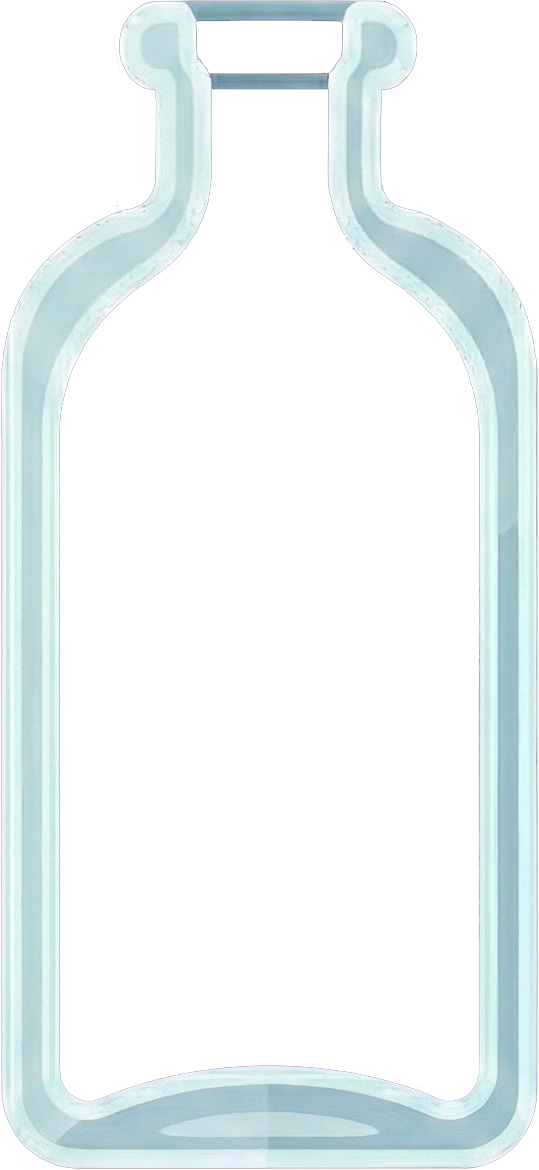
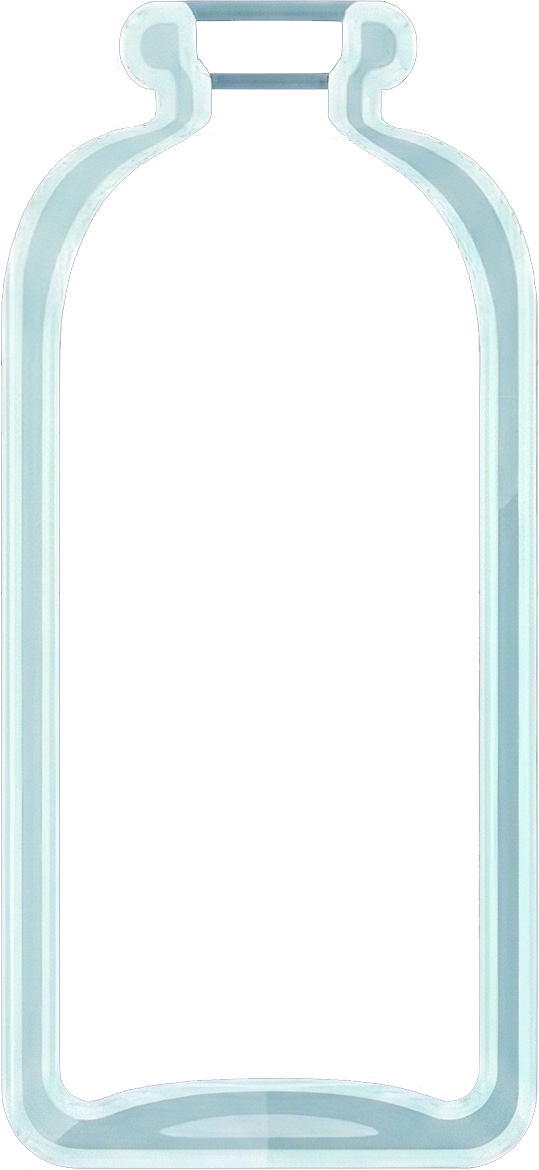
Integrate bottle PNG and fix liquid positioning
- Replace bottle CSS with PNG image overlay (bottle.png)
- Center liquid container using width + translateX(-99%)
- Add borderRadius to liquid container for base curve
- Measure board height via useRef for accurate layout calculation
- Update calculateLayout to use real board height

Changed region(s): [[0.5937, 0.0923, 1.0, 0.3692], [0.0, 0.0923, 0.4156, 0.3692], [0.2375, 0.8923, 0.7718, 0.9538]]

diff --git a/js/components.js b/js/components.js
@@ -92,12 +92,13 @@ function Bottle({
   const doneColor   = completed ? getColor(segments[0]) : null;
 
   // Image-based bottle dimensions
-  // The PNG has a neck region (~18% top) and base (~8% bottom); liquid fills the middle ~74%
+  // The PNG interior: neck ends ~22% from top, base ~5% from bottom, walls ~14% each side
   const imgW        = w;
   const imgH        = Math.round(w * 2.8);   // aspect ratio of the PNG (~1:2.8)
-  const liquidTop   = Math.round(imgH * 0.18);
-  const liquidBot   = Math.round(imgH * 0.08);
+  const liquidTop   = Math.round(imgH * 0.22);
+  const liquidBot   = Math.round(imgH * 0.05);
   const liquidH     = imgH - liquidTop - liquidBot;
+  const liquidPadX  = Math.round(w * 0.9);  // inset from bottle walls
 
   return (
     <div
@@ -136,10 +137,12 @@ function Bottle({
       <div
         className="absolute overflow-hidden"
         style={{
-          left:   0,
-          right:  0,
-          top:    liquidTop,
-          height: liquidH,
+          width:        liquidPadX,
+          left:         liquidPadX,
+          transform:    "translateX(-99%)",
+          top:          liquidTop,
+          height:       liquidH,
+          borderRadius: `0 0 ${Math.round(w * 0.1)}px ${Math.round(w * 0.1)}px`,
         }}
       >
         <div className="absolute bottom-0 left-0 right-0 flex flex-col-reverse">

diff --git a/js/app.js b/js/app.js
@@ -2,7 +2,7 @@
 // MAIN APP COMPONENT
 // ============================================
 
-const { useState, useEffect, useCallback } = React;
+const { useState, useEffect, useCallback, useRef } = React;
 
 function App() {
   // --- State ---
@@ -33,9 +33,13 @@ function App() {
   const play = useCallback((fn) => { if (!muted) fn(); }, [muted]);
 
   // --- Layout on resize ---
+  const boardRef = useRef(null);
+
   useEffect(() => {
-    const recalc = () =>
-      setLayout(calculateLayout(bottles.length || 5, window.innerWidth, window.innerHeight));
+    const recalc = () => {
+      const boardH = boardRef.current ? boardRef.current.clientHeight : window.innerHeight - 155;
+      setLayout(calculateLayout(bottles.length || 5, window.innerWidth, boardH));
+    };
 
     recalc();
     window.addEventListener("resize", recalc);
@@ -337,6 +341,7 @@ function App() {
 
       {/* ---------- Game board ---------- */}
       <div
+        ref={boardRef}
         className="flex-1 flex items-center justify-center w-full px-1 overflow-hidden"
         style={{ position: "relative", zIndex: 10 }}
         onClick={handleBgTap}

diff --git a/js/game.js b/js/game.js
@@ -159,9 +159,9 @@ function findHint(bottles) {
 
 // --- Layout calculation ---
 
-function calculateLayout(totalBottles, vw, vh) {
+function calculateLayout(totalBottles, vw, boardH) {
   const availW = vw - 16;
-  const availH = vh - 155;
+  const availH = boardH - 16;
   const gap    = 6;
 
   let bestSize = 20, bestCols = totalBottles, bestRows = 1;
@@ -169,8 +169,8 @@ function calculateLayout(totalBottles, vw, vh) {
   for (let rows = 1; rows <= 4; rows++) {
     const cols   = Math.ceil(totalBottles / rows);
     const maxW   = Math.floor((availW - gap * (cols - 1)) / cols);
-    const maxH   = Math.floor((availH - gap * (rows - 1)) / (rows * 3.2));
-    const size   = Math.max(24, Math.min(vw > vh ? 48 : 56, maxW, maxH));
+    const maxH   = Math.floor((availH - gap * (rows - 1)) / (rows * 2.8));
+    const size   = Math.max(24, Math.min(maxW, maxH));
 
     if (size > bestSize || (size === bestSize && rows < bestRows)) {
       bestSize = size;
